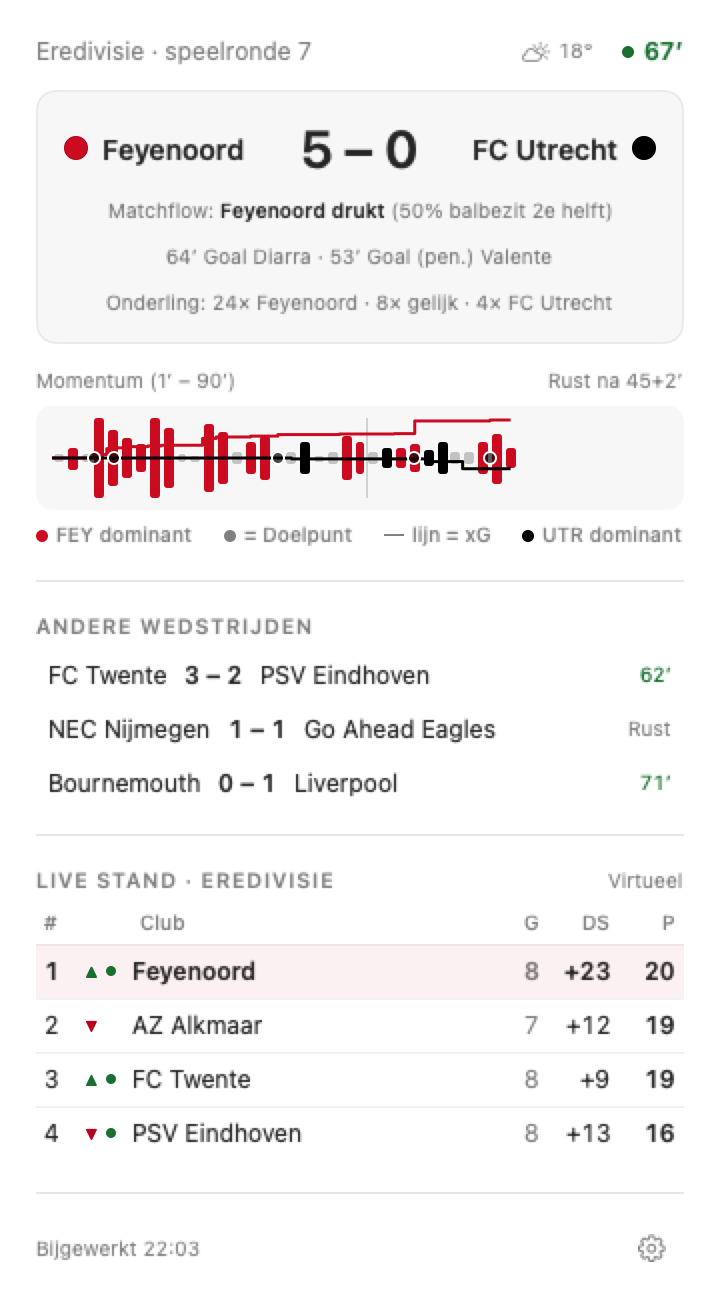
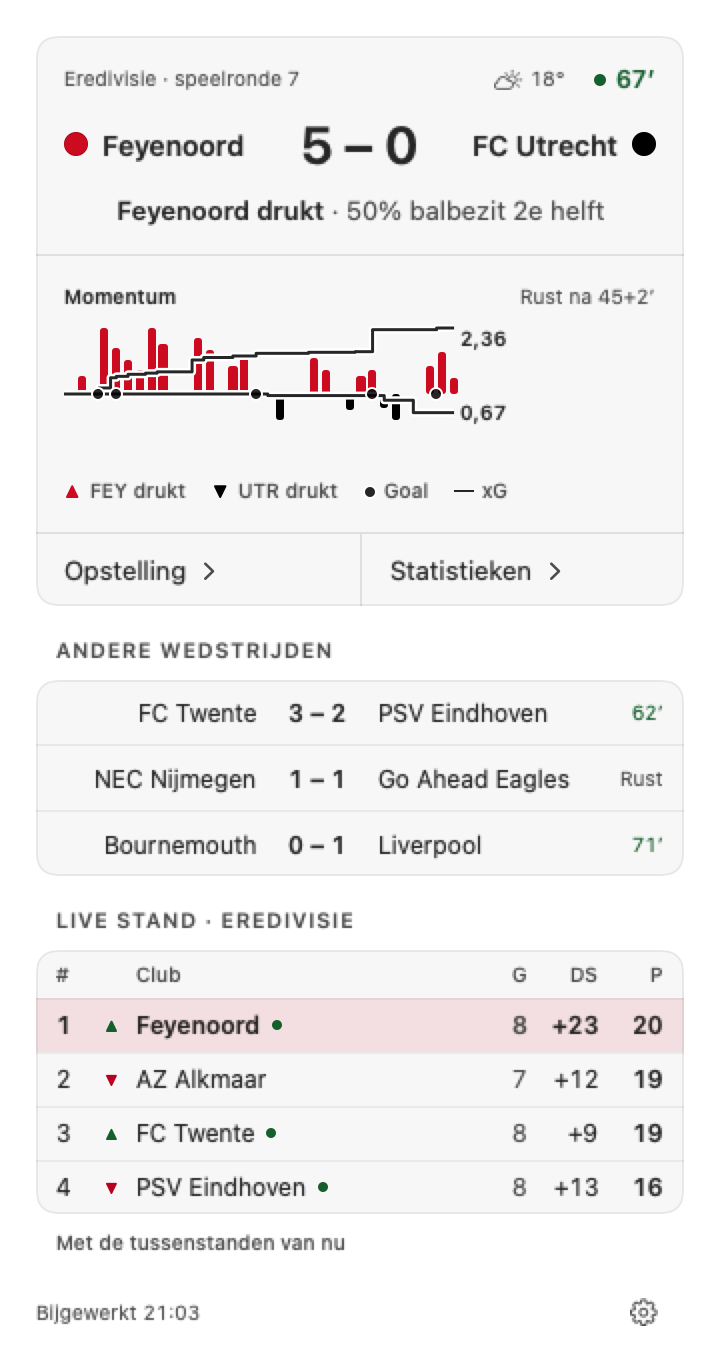
Update Matchflow case study and product page to version 0.4
Case study: following clubs, countries and competitions (and how the
menu bar picks one match), the card line that contradicted the score,
the live table arrows, momentum and xG as two slides, notifications per
moment with quiet during meetings, measured contrast, a fourth live
test, and the 1.0 and iPhone plans. New screenshots from the app repo.

Product page: new sections for following and widgets (with the render
background cropped off), notifications per moment, Now live, Last five,
keyboard shortcut, colours from the app's design system, and image
sizes for the new screenshots. Both stay drafts.

Claude-Session: https://claude.ai/code/session_01Wg7sBFubbrheGcknnH7z3w

diff --git a/src/content/projects/matchflow.md b/src/content/projects/matchflow.md
@@ -1,8 +1,8 @@
 ---
 title: Matchflow
 tagline: A second screen for football that shows how a match is going, not just the score
-description: 'A macOS menu bar app that follows your club: the score, a bar that shows who is on top, and the flow of the match one click away.'
-publishDate: '2026-10-05'
+description: 'A macOS menu bar app that follows your clubs, countries and competitions: the score, a bar that shows who is on top, and the flow of the match one click away.'
+publishDate: '2026-10-18'
 duration: '2026'
 role: Product Designer, built with Claude Code
 client: Personal project
@@ -24,40 +24,48 @@ seo:
     alt: 'Matchflow: follow the match from your menu bar'
 ---
 
-![The Matchflow popover during Feyenoord – FC Utrecht: the score, a line saying Feyenoord is pressing, the last goals, a momentum chart with xG lines, the other live matches and the live table.](../../assets/images/projects/matchflow/popover-light.png) ![The line-ups pane during Netherlands – Serbia: both teams on one pitch with live player ratings and substitutions.](../../assets/images/projects/matchflow/lineups.png)
+![The Matchflow popover during Feyenoord – FC Utrecht: one match card with the score, the line "Feyenoord pressing", a momentum chart with bars up and down, links to line-ups and stats, the other matches and the live table.](../../assets/images/projects/matchflow/popover-light.png) ![The line-ups page during Netherlands – Serbia: both teams on one pitch with live ratings, goals and cards beside the players, and the substitutes with who they replaced.](../../assets/images/projects/matchflow/lineups.png)
 
 _The popover during a live match, and the line-ups one click further. Screenshots from the Dutch version of the app._
 
 ## The Challenge
 
-When you can't watch, a score app tells you the result, not how the match is going. A 1–1 can mean your club is pinned back in its own half, or pressing for the winner. The data that shows the difference exists: momentum per minute, shots and xG, ratings. But where it is shown, it looks like a trading terminal: dark, dense and built for analysts.
+When you can't watch, a score app tells you the result, not how the match is going. A 1–1 can mean your club is pinned back in its own half, or pressing for the winner. The data that shows the difference exists: momentum per minute, shots and xG, ratings. Where it is shown, it looks like a trading terminal: dark, dense and built for analysts.
 
-I wanted the opposite: one glance in the menu bar to know how the match is going, and one click to understand why. Light, warm and calm, so it fits between other work instead of competing with it.
+The goal was the opposite: one glance in the menu bar to know how the match is going, one click to understand why. Light, warm and calm, so it sits between other work instead of competing with it.
 
 ## My Role
 
-This is a personal project. I wrote the product requirements and the specs, briefed and chose the visual direction, wrote the motion spec and the style guide, and made every product and design decision. The code was largely written by Claude Code. From the first commit to version 0.2 took three days, including three live tests during real matches.
+A personal project. I wrote the product requirements and the specs, chose the visual direction, wrote the motion spec and the style guide, and made the product and design calls. The code was largely written by Claude Code. Version 0.2 took three days; version 0.4 took nine working days spread over two and a half weeks, with live tests during four real matches.
 
 ## Approach
 
-**The bar is the dominance.** The menu bar shows the two club codes, the score and a thin tug-of-war bar underneath: the home colour fills from the left up to the home side's share of the momentum over the last ten minutes. At first a percentage sat next to it. Without explanation, "51%" could not be read: whose, and of what? The percentage went; the bar already said it. The same idea became the app icon: a pitch seen from above, split at the front line, after two versions with momentum bars kept looking like an audio wave.
+**The bar is the dominance.** The menu bar shows the two club codes, the score and a thin tug-of-war bar underneath: the home colour fills from the left up to the home side's share of the momentum over the last ten minutes. At first a percentage sat next to it. Without explanation, "51%" could not be read: whose, and of what? The percentage went; the bar already said it. When the momentum turns for ten minutes, a small flame appears next to the side that took over. The same bar became the app icon: a pitch seen from above, split at the front line.
 
-**Only show what is there.** The data comes from an unofficial source with no public API, and not every match has the same depth. When a field is missing, momentum, possession or ratings, that part of the interface disappears. Nothing is estimated or filled in, and the data layer is kept separate so the source can be replaced.
+**From a favourite club to what you follow.** Version 0.2 had one favourite club, so the menu bar always knew which match to show. People follow more than that: a club, a national team, a whole competition. Version 0.4 lets you follow clubs, countries and competitions in three ordered lists, which raised the real question: with several matches live, which one gets the menu bar? The rule: live goes first, then the group, then your own order. A followed competition shows its most exciting live match, judged by the score, the minute, momentum swings and what is at stake in the table, and keeps it until full time instead of jumping between matches. The popover says why it shows this match, and lists the other followed matches that are on.
 
-**Match days beat test data.** I tested the app live during three internationals, logging every response minute by minute. Those tests changed the design. In one match the score showed 2–1 a quarter of an hour before the goal event arrived, so a notification waiting for the event would have come far too late: Matchflow now announces a goal when the score changes and adds the scorer later. Mid-match, the source once sent an old copy from before kick-off; the app now recognises that and keeps the previous state, so the menu bar never jumps back. A fresh goal sometimes named its scorer as a placeholder for a minute; that placeholder is now treated as no name at all. During a VAR check the new score is held and nothing is announced. A goal that stands is announced once, and a disallowed goal never is.
+**The text never contradicts the score.** Each match card has one line about the flow. During a 2–5 it read "Evenly matched · possession 51–49": true by momentum, absurd next to the score. Now the momentum line is used only up to one goal apart; from two goals it says who is in control. The live table had the same problem. Its arrows compared with the data source's own order, which updates during some matches by its own rules, so a club losing 2–5 got a green arrow up. Now the table with and without the live matches is ranked by the same rule.
 
-**Interrupt on your terms.** Notifications have four levels: all goals and red cards, goals only, only your own club's goals, or off.
+**One chart, one question.** Momentum bars and xG lines first shared one chart. After a live test the lines ran red over red bars and neither could be read. They split into two slides of the same card, momentum first and the xG race second, with a larger flow page behind both.
 
-**Designing by removing.** Several ideas were built, looked at and taken out again: club colours as dots beside the team codes, then as upright strips like a TV score bug, and a soft colour wash across the match card. Stadium and referee are in the data but not on screen. Each one added colour or detail without adding understanding. What stayed is one bar, one sentence ("Feyenoord pressing, 58% possession in the second half") and a chart.
+**Only show what is there.** The data comes from an unofficial source with no public API, and not every match has the same depth. When momentum, possession or ratings are missing, that part disappears. Nothing is estimated, and the data layer is kept separate so the source can be replaced.
 
-**Calm motion.** Only real changes move: the bar slides to a new value, the score rolls on a goal, a new minute grows into the chart. Nothing pulses, repeats or blinks, the menu bar item never changes width, and with Reduce Motion everything jumps straight to its end state.
+**Match days beat test data.** Live tests during four matches changed the design. The score once showed 2–1 a quarter of an hour before the goal event arrived, so goals are announced when the score changes and the scorer follows. Mid-match the source sent an old copy from before kick-off, so the app now keeps the previous state instead of jumping back. During a VAR check the new score is held: a goal that stands is announced once, a disallowed one never. A test during Hajduk – Ajax found four more bugs, from the live table counting a match twice to attack-zone bars that made 22% look like 45%.
+
+**Interrupt on your terms.** Notifications went from four levels to one switch per moment: goals, red cards, the line-up being known, a rival scoring in a way that moves your club, and a turn in the momentum. During a meeting in your calendar every notification waits, and one summary follows when it ends.
+
+**Designing by removing.** Several ideas were built, looked at and taken out: club colours as dots beside the team codes, then as upright strips like a TV score bug, a soft colour wash across the match card, a line about what just happened that still read as live after full time. Stadium and referee are in the data but not on screen. Each added colour or detail without adding understanding.
+
+**Measured, not assumed.** A design review measured every colour against WCAG 2.2 AA. The live minute reached 4.2:1, a club red on the dark chart 2.3:1. Club colours now shift in lightness, keeping their hue, until they reach 3:1 against the chart. The popover also measures the screen before it opens: on a small display the table scrolls, the match card stays put.
 
 ## Impact
 
-Matchflow 0.2 is in beta: it runs on Apple Silicon and Intel Macs with macOS 15, follows clubs in six European leagues and national teams, and updates itself with signed releases. More than a hundred tests run against real responses recorded during live matches. A mobile version, built on the same data layer, is the next step.
+Matchflow 0.4 is in beta on Apple Silicon and Intel Macs with macOS 15, with widgets in three sizes, keyboard shortcuts and signed self-updates. It follows clubs in six European leagues and national teams, and shows what else is live, the European cups included. More than two hundred tests run against real responses recorded during live matches. The criteria for 1.0 are set: two or three match days without new bugs. A native iPhone app with the live score on the lock screen comes after that, starting with a test of whether the data can be fetched from a server at all.
 
 ## Learnings
 
-Removing turned out to be the most important design work. Most of what I built and then took out was technically fine; it just didn't make the match easier to read.
+Removing was the most important design work. Most of what was built and taken out again was technically fine; it just didn't make the match easier to read.
 
-And real conditions are the only honest test. The fixtures were correct, but the match days showed how the data actually arrives: late, out of order, sometimes backwards. Designing for that is what makes a live product feel trustworthy.
+The structure mattered more than the screens. Moving from one favourite club to things you follow changed one setting into a model with priorities, and the menu bar's single slot made every rule in that model visible.
+
+And real conditions are the only honest test. The fixtures were correct, but match days showed how the data actually arrives: late, out of order, sometimes backwards.
